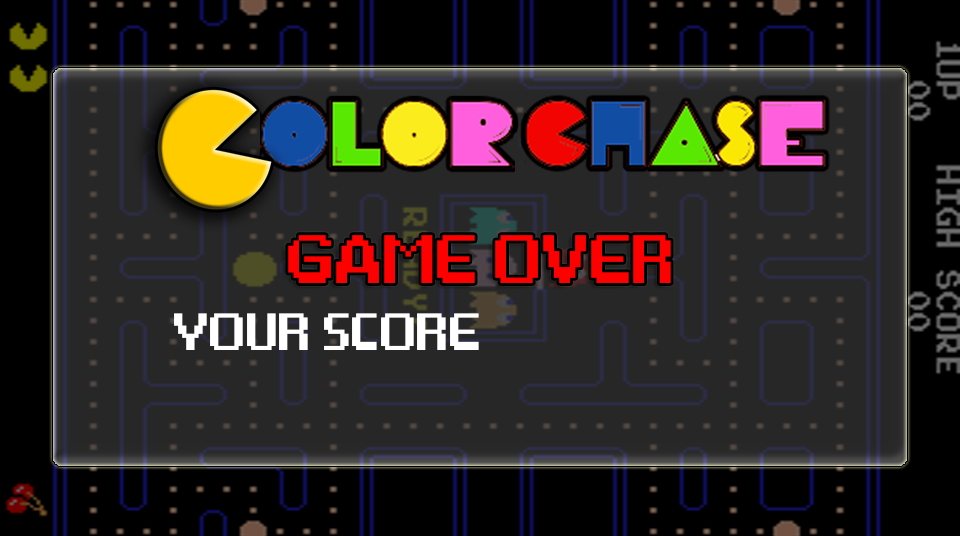
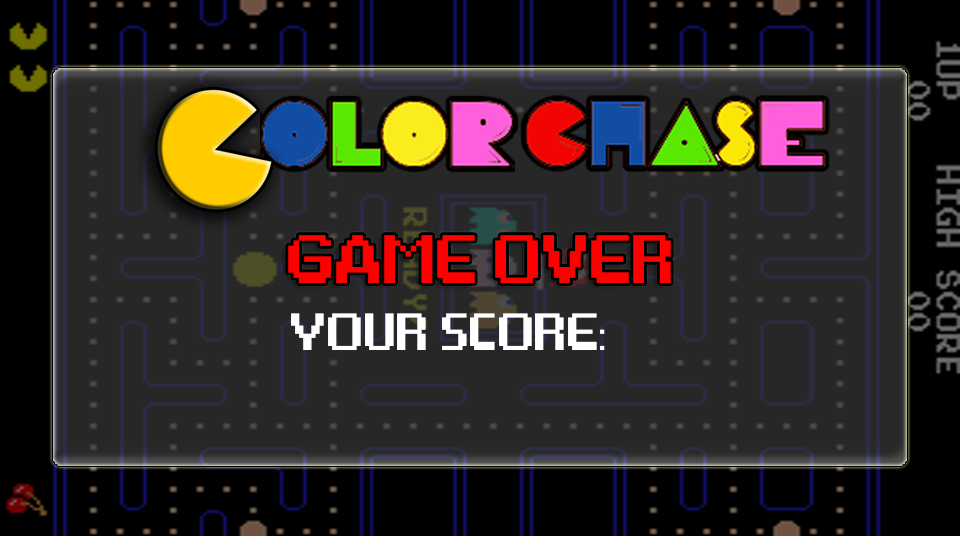
finished game

Changed region(s): [[0.1562, 0.5672, 0.625, 0.6567]]

diff --git a/js/game/Screens/GameScreen.js b/js/game/Screens/GameScreen.js
@@ -30,9 +30,10 @@ GameScreen = function(width, height) {
 	this.addEventListener("mouseup", this.MouseUp.bind(this));
 
 	//CUSTOM
-	//this.colors = ["blue","green","pink","teal","white","yellow","brown","cream","grey","mint", "navy", "orange", "purple"];
+	this.colors = ["blue", "green", "pink", "white", "yellow", "red", "grey", "orange", "purple"];
+																		//teal  //navy
 
-	this.colors = ["blue","green","pink","white","yellow","brown","mint", "navy", "orange", "purple"];
+	//this.color = ["blue", ""];
 	this.currKey = "None";
 
 };
@@ -81,7 +82,7 @@ GameScreen.prototype = {
 		// Update the distance and coin displays
 		this.distanceDisplay.text = Math.floor(this.mDistance).toString();
 		//this.coinDisplay.text = Math.floor(this.mCoins).toString();
-		this.coinDisplay.text = this.currKey;	
+		//this.coinDisplay.text = this.currKey;	
 
 		// Read & make level
 		this.ReadNextEvent(event.elapsedTime);
@@ -231,12 +232,14 @@ GameScreen.prototype = {
 	},
 
 	spawnColors: function(){
-		var numCoins = 10;
+		var numCoins = 9;
 
 
 
 		var num = Math.floor(Math.random()*numCoins);
 		this.currKey = this.colors[num];
+
+		//this.artLayer.getChildAt(1).image = this.colors[num] + ".png";
 
 		var notCorrect1 = notCorrect2 = 0;
 
@@ -249,11 +252,11 @@ GameScreen.prototype = {
 		// console.log(notCorrect1);
 		// console.log(notCorrect2);
 
-		var heights = [100, 250, 400];
+		var heights = [50, 225, 400];
 
 		function shuffle(o){ //v1.0
-			for(var j, x, i = o.length; i; j = Math.floor(Math.random() * i), x = o[--i], o[i] = o[j], o[j] = x);
-				return o;
+	    	for(var j, x, i = o.length; i; j = Math.floor(Math.random() * i), x = o[--i], o[i] = o[j], o[j] = x);
+	    	return o;
 		};
 
 		function genRandInt(a, b){
@@ -265,14 +268,22 @@ GameScreen.prototype = {
 		//console.log(heights[0]+"," + heights[1]+","+heights[2]);
 
 		this.obstacleLayer.addChild(new SafeObstacle().setup({
-			worldX : this.mPlayer.worldX + this.percentageOfWidth(1) * 2 + genRandInt(-300, 300),
+			worldX : this.mPlayer.worldX + this.percentageOfWidth(1) * 2 + -600,
+			type : "2",
+			worldY: -50,
+			image :this.colors[num],
+			gameScreen : this
+		}));
+
+		this.obstacleLayer.addChild(new SafeObstacle().setup({
+			worldX : this.mPlayer.worldX + this.percentageOfWidth(1) * 2 + genRandInt(-250, 250),
 			type : "2",
 			worldY: heights[0],
 			image :"stationary_obstacle_"+ (++num),
 			gameScreen : this
 		}));
 		this.obstacleLayer.addChild(new StationaryObstacle().setup({
-			worldX : this.mPlayer.worldX + this.percentageOfWidth(1) * 2 + genRandInt(-300, 300),
+			worldX : this.mPlayer.worldX + this.percentageOfWidth(1) * 2 + genRandInt(-250, 250),
 			type : "2",
 			worldY: heights[1],
 			image :"stationary_obstacle_" + (++notCorrect1),
@@ -280,7 +291,7 @@ GameScreen.prototype = {
 		}));
 
 		this.obstacleLayer.addChild(new StationaryObstacle().setup({
-			worldX : this.mPlayer.worldX + this.percentageOfWidth(1) * 2 + genRandInt(-300, 300),
+			worldX : this.mPlayer.worldX + this.percentageOfWidth(1) * 2 + genRandInt(-250, 250),
 			type : "2",
 			worldY: heights[2],
 			image :"stationary_obstacle_" + (++notCorrect2),
@@ -370,7 +381,7 @@ GameScreen.prototype = {
 		// 	worldY: 450,
 		// 	trackingSpeed : 0.1,
 		// }));
-
+		
 		//Middle ground plane
 		this.artLayer.addChild(new TGE.ParallaxPane().setup({
 			image : "gamescreen_middleground",
@@ -379,11 +390,14 @@ GameScreen.prototype = {
 		}));
 		
 		//Scrolling ground plane
-		this.artLayer.addChild(new TGE.ParallaxPane().setup({
-			image : "gamescreen_ground",
-			worldY: 12,
-			trackingSpeed : 0.6
-		}));
+		// this.artLayer.addChild(new TGE.ParallaxPane().setup({
+		// 	name: "colorWord",
+		// 	image : "blue.png",
+		// 	worldY: 12,
+		// 	trackingSpeed : 0.3
+		// }));
+
+		//console.log(this.artLayer);
 	},
 	
 	SetupHud : function() {
@@ -403,22 +417,22 @@ GameScreen.prototype = {
 		}));
 		
 		//Feet icon that sits in front of the distance traveled number
-		this.addChild(new TGE.Sprite().setup({
-			x : 25,
-			y : 22,
-			image : "distance_ui",
-			scaleX : 0.5,
-			scaleY : 0.5
-		}));
+		// this.addChild(new TGE.Sprite().setup({
+		// 	x : 25,
+		// 	y : 22,
+		// 	image : "distance_ui",
+		// 	scaleX : 0.5,
+		// 	scaleY : 0.5
+		// }));
 
-		//Text that displays coins collected
-		this.coinDisplay = this.UILayer.addChild(new TGE.Text().setup({
-			x : 72,
-			y : 65,
-			text : "None",
-			font : "Tahoma 20px",
-			color : "white"
-		}));
+		// //Text that displays coins collected
+		// this.coinDisplay = this.UILayer.addChild(new TGE.Text().setup({
+		// 	x : 72,
+		// 	y : 65,
+		// 	text : "None",
+		// 	font : "Tahoma 20px",
+		// 	color : "white"
+		// }));
 		
 		// //Coin icon that sits in front of the coins collected number
 		// this.addChild(new TGE.Sprite().setup({
@@ -429,10 +443,10 @@ GameScreen.prototype = {
 		// 	scaleY : 0.75
 		// }));
 
-},
+	},
 
-PlayerHitCoin : function(params) 
-{
+	PlayerHitCoin : function(params) 
+	{
 		//Play sound
 		TGE.Game.GetInstance().audioManager.Play({
 			id : 'hitCoin_sound',
@@ -445,19 +459,19 @@ PlayerHitCoin : function(params)
 	
 	PlayerHitObstacle : function() 
 	{
+		TGE.Game.GetInstance().audioManager.StopAll();
+
 		//Play sound
 		TGE.Game.GetInstance().audioManager.Play({
 			id : 'hitObstacle_sound',
 			loop : '0'
 		});
 
-
+		//End game
 
 		setTimeout(function(){
-			this.EndGame();	
+			this.EndGame();
 		}.bind(this), 2000);
-
-
 	},
 	
 	GetScore : function() {

diff --git a/js/game/Runner.js b/js/game/Runner.js
@@ -15,7 +15,17 @@ Runner = function()
         {id:'stationary_obstacle_7',    url:'stationaryObstacles/stationary_obstacle_7.png'},
         {id:'stationary_obstacle_8',    url:'stationaryObstacles/stationary_obstacle_8.png'},
         {id:'stationary_obstacle_9',    url:'stationaryObstacles/stationary_obstacle_9.png'},
-        {id:'stationary_obstacle_10',    url:'stationaryObstacles/stationary_obstacle_10.png'},
+
+        {id:'blue',    url:'screens/blue.png'},
+        {id:'green',    url:'screens/green.png'},
+        {id:'pink',    url:'screens/pink.png'},
+        {id:'white',    url:'screens/white.png'},
+        {id:'yellow',    url:'screens/yellow.png'},
+        {id:'red',    url:'screens/red.png'},
+        {id:'grey',    url:'screens/grey.png'},
+        {id:'orange',    url:'screens/orange.png'},
+        {id:'purple',    url:'screens/purple.png'},
+
 
 
         //Moving Obstacles
@@ -34,8 +44,7 @@ Runner = function()
         // Backgrounds
         {id:'startscreen_background',   url:'screens/startscreen_background.png'},
         {id:'endscreen_background',   	url:'screens/endscreen_background.png'},
-        {id:'gamescreen_background',   	url:'screens/gamescreen_background.jpg'},
-        {id:'gamescreen_ground',   		url:'screens/gamescreen_ground.png'},
+        {id:'gamescreen_ground',   		url:'screens/blue.png'},
         {id:'gamescreen_middleground',  url:'screens/gamescreen_middleground.png'},
            
         // Buttons

diff --git a/js/game/ObjectClasses/Player.js b/js/game/ObjectClasses/Player.js
@@ -39,9 +39,10 @@ Player.prototype = {
 			rows : 1,
 			columns : 4,
 			totalFrames : 4,
-			fps : 24,
+			fps : 8,
 			looping : true,
-			visible : false
+			visible : false,
+			scale: .7
 		}));
 		
 		// Flying animation
@@ -52,7 +53,8 @@ Player.prototype = {
 	        totalFrames : 4,
 	        fps : 24,
 	        looping : true,
-	        visible : false
+	        visible : false,
+	        scale: .7
 		}));
 
 		// Start player out running

diff --git a/js/game/Screens/EndScreen.js b/js/game/Screens/EndScreen.js
@@ -26,7 +26,7 @@ EndScreen = function() {
     this.addChild(this.coinDisplay = new TGE.Text().setup({
         x : this.percentageOfWidth(0.55),
         y : this.percentageOfHeight(0.62),
-        font : "Tahoma 50px",
+        font : "50px Tahoma",
         color: "white"
     }));
     
